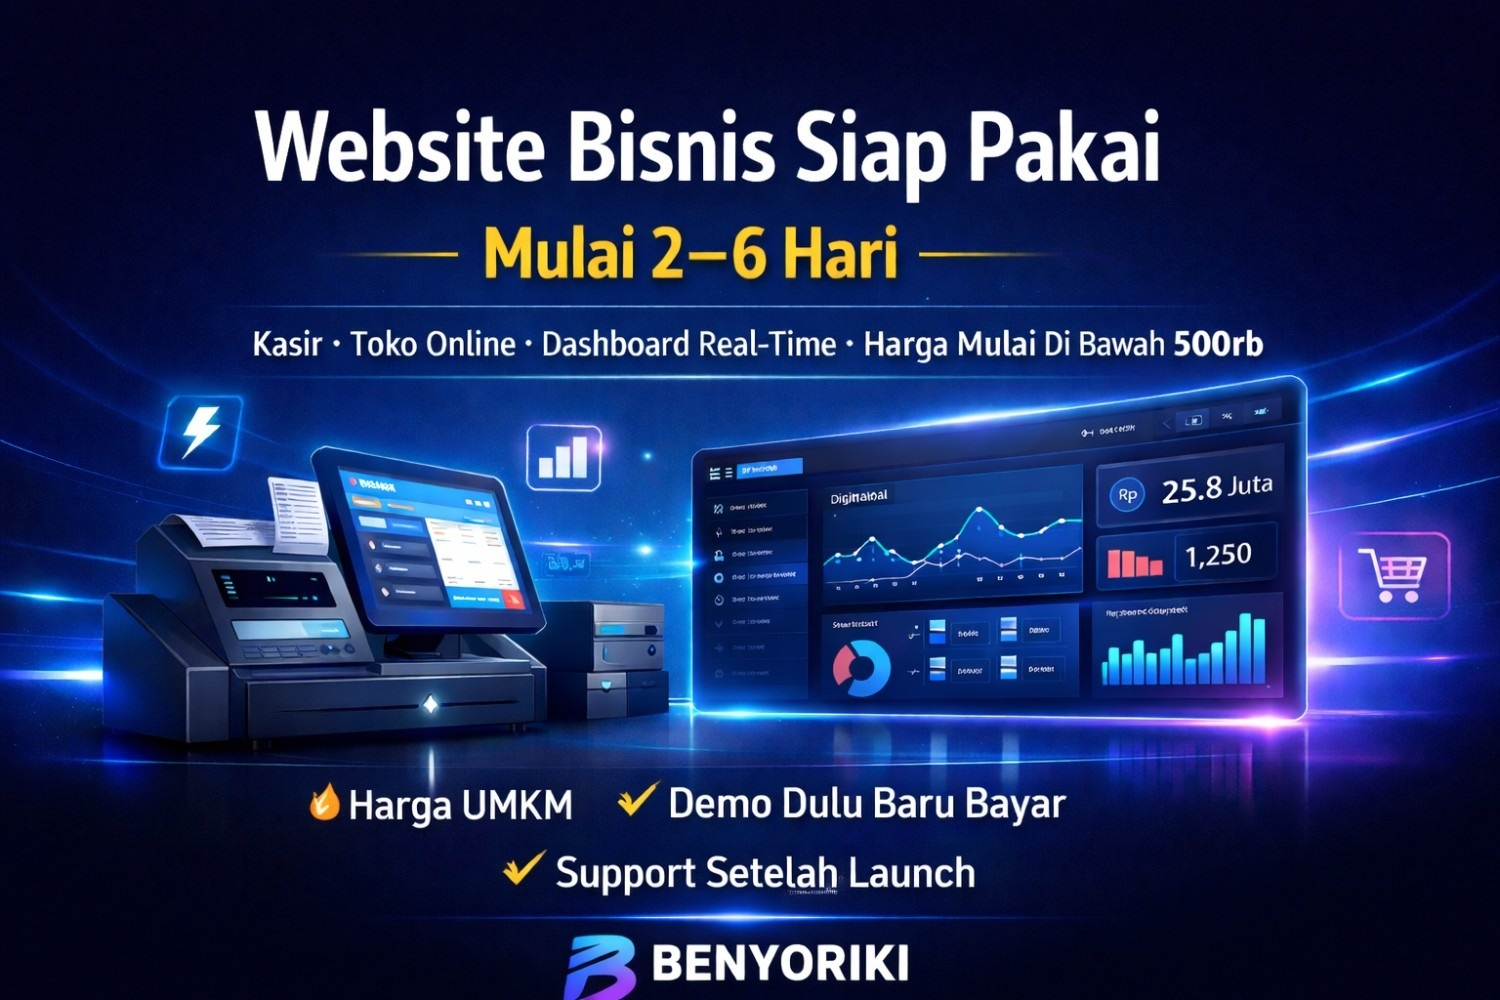
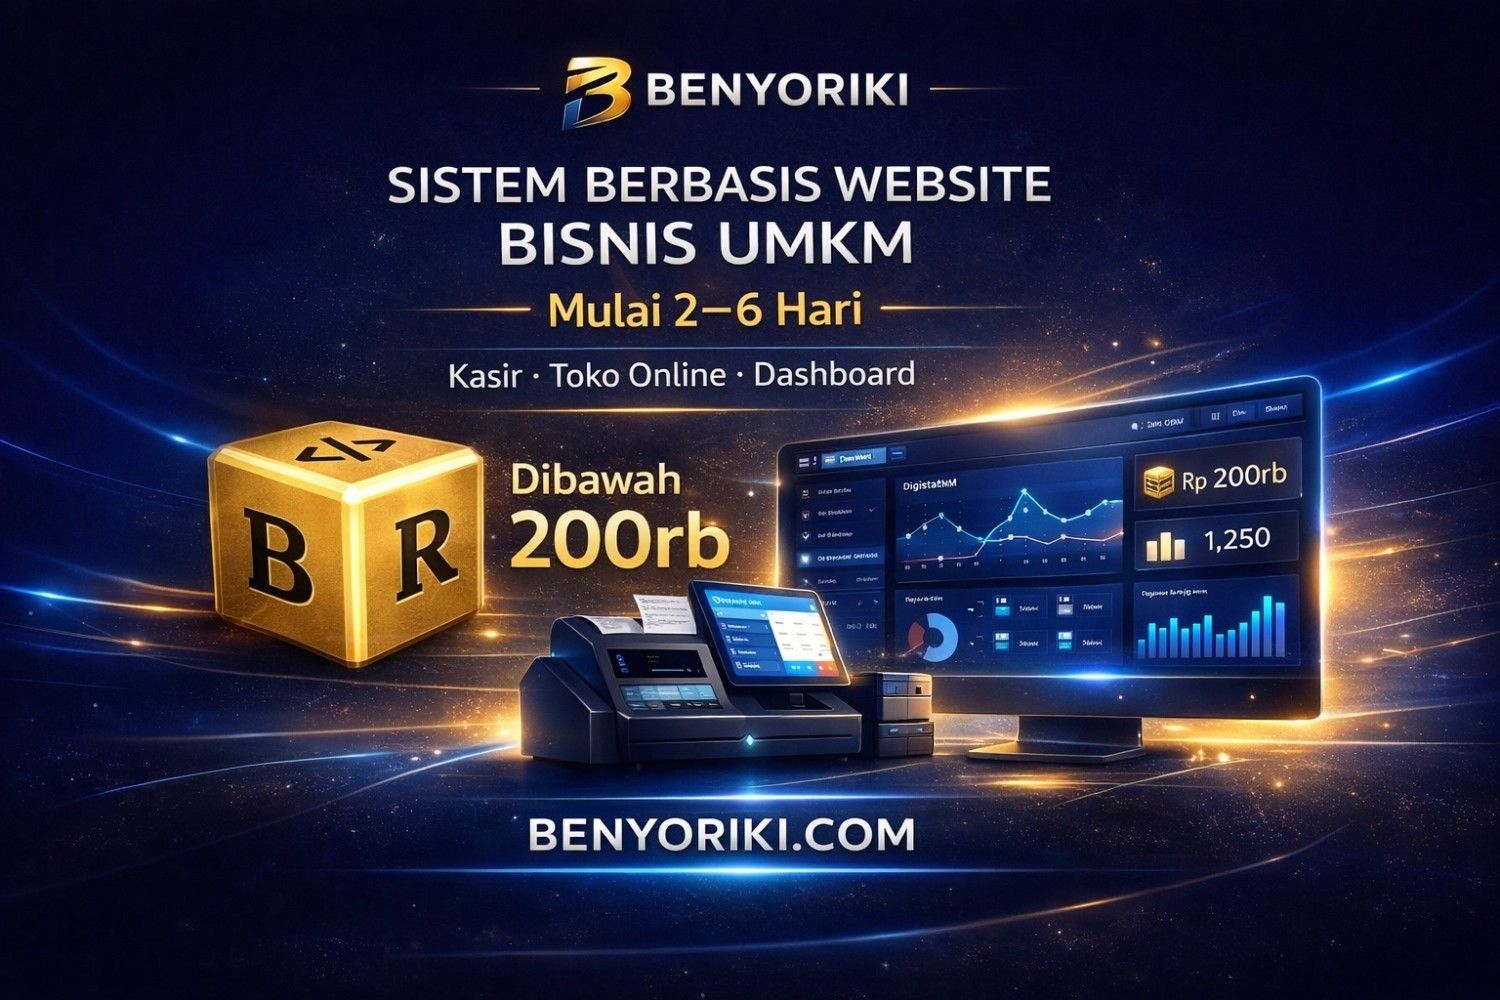
Add files via upload

diff --git a/app.js b/app.js
@@ -360,14 +360,14 @@ IDENTITAS:
 - Spesialisasi: Sistem website real-time, kasir online, toko digital, dashboard bisnis
 
 PAKET HARGA (SELALU SEBUT INI JIKA DITANYA HARGA):
-- Basic: Mulai Rp 500rb → Landing Page/Profil Bisnis, Hosting+Domain 1 tahun GRATIS, selesai 2–3 hari kerja
+- Basic: Mulai Rp 200rb → Landing Page/Profil Bisnis, Hosting+Domain 1 tahun GRATIS, selesai 2–3 hari kerja
 - Standar: Mulai Rp 1,5jt → Toko Online, Katalog Produk, Sistem Login, selesai 3–5 hari kerja
 - Pro: Mulai Rp 3jt → Kasir Online, Dashboard Real-Time, Multi-Cabang, selesai 5–10 hari kerja
 - SEMUA paket: Demo dulu sebelum bayar, support pasca-launch termasuk
 
 KEUNGGULAN UTAMA (selalu tekankan):
 - Website bisnis siap 2–6 hari kerja
-- Harga mulai di bawah Rp 500rb, hosting+domain gratis di paket Basic
+- Harga mulai di bawah Rp 200rb, hosting+domain gratis di paket Basic
 - Demo sistem sebelum bayar — tidak puas, tidak bayar
 - Support & revisi pasca-launch
 - Bisa diakses dari HP kapan saja
@@ -461,11 +461,11 @@ function getFallbackReply(txt) {
   if (t.includes('kasir') || t.includes('pos') || t.includes('inventory'))
     return `🛒 <strong>Sistem Kasir Online</strong> adalah layanan paling diminati kami! Cocok banget untuk warung, toko, atau bisnis multi-cabang — stok update otomatis, laporan harian, bisa diakses dari HP. Harga tergantung fitur & kerumitan sistem, estimasi mulai <strong>Rp 2–5 juta</strong>. Hosting & domain dihitung terpisah untuk paket ini. Mau konsultasi gratis dulu? 😊`;
   if (t.includes('toko') || t.includes('online') || t.includes('shop') || t.includes('ecommerce'))
-    return `🌐 <strong>Toko Online</strong> kami dibuat khusus untuk UMKM — tampil profesional tanpa harga selangit! Katalog produk, keranjang belanja, order via WhatsApp, semua bisa disesuaikan. Harga tergantung banyaknya fitur, mulai dari <strong>di bawah Rp 500rb</strong> untuk yang sederhana (sudah termasuk hosting & domain gratis). Produk apa yang mau Anda jual? 🎯`;
+    return `🌐 <strong>Toko Online</strong> kami dibuat khusus untuk UMKM — tampil profesional tanpa harga selangit! Katalog produk, keranjang belanja, order via WhatsApp, semua bisa disesuaikan. Harga tergantung banyaknya fitur, mulai dari <strong>di bawah Rp 200rb</strong> untuk yang sederhana (sudah termasuk hosting & domain gratis). Produk apa yang mau Anda jual? 🎯`;
   if (t.includes('harga') || t.includes('biaya') || t.includes('berapa') || t.includes('budget') || t.includes('murah') || t.includes('mahal') || t.includes('paket'))
-    return `💰 Kami punya 3 paket dengan harga transparan:<br><br>📌 <strong>Basic</strong>: Mulai Rp 500rb → Landing Page + Hosting & Domain Gratis (2–3 hari selesai)<br>📌 <strong>Standar</strong>: Mulai Rp 1,5jt → Toko Online + Sistem Login (3–5 hari selesai)<br>📌 <strong>Pro</strong>: Mulai Rp 3jt → Kasir + Dashboard Real-Time + Multi-Cabang (5–10 hari selesai)<br><br>Semua paket: <strong>demo dulu sebelum bayar</strong>. Mau tahu lebih detail? <a href='https://wa.me/628988995637' target='_blank'>Chat Riki sekarang →</a> 🚀`;
+    return `💰 Kami punya 3 paket dengan harga transparan:<br><br>📌 <strong>Basic</strong>: Mulai Rp 200rb → Landing Page + Hosting & Domain Gratis (2–3 hari selesai)<br>📌 <strong>Standar</strong>: Mulai Rp 1,5jt → Toko Online + Sistem Login (3–5 hari selesai)<br>📌 <strong>Pro</strong>: Mulai Rp 3jt → Kasir + Dashboard Real-Time + Multi-Cabang (5–10 hari selesai)<br><br>Semua paket: <strong>demo dulu sebelum bayar</strong>. Mau tahu lebih detail? <a href='https://wa.me/628988995637' target='_blank'>Chat Riki sekarang →</a> 🚀`;
   if (t.includes('hosting') || t.includes('domain'))
-    return `🌐 Soal hosting & domain, begini ketentuannya: untuk paket website <strong>di bawah Rp 500rb</strong>, hosting & domain sudah <strong>GRATIS</strong> termasuk dalam paket! Untuk proyek yang lebih kompleks dengan kebutuhan server lebih besar, hosting & domain dihitung <strong>terpisah</strong> dari harga jasa pembuatan. Mau tahu lebih lanjut? Yuk konsultasi gratis! 😊`;
+    return `🌐 Soal hosting & domain, begini ketentuannya: untuk paket website <strong>di bawah Rp 200rb</strong>, hosting & domain sudah <strong>GRATIS</strong> termasuk dalam paket! Untuk proyek yang lebih kompleks dengan kebutuhan server lebih besar, hosting & domain dihitung <strong>terpisah</strong> dari harga jasa pembuatan. Mau tahu lebih lanjut? Yuk konsultasi gratis! 😊`;
   if (t.includes('dashboard') || t.includes('laporan') || t.includes('analitik'))
     return `📊 <strong>Dashboard bisnis real-time</strong> bisa pantau omzet, stok, dan transaksi dari mana saja langsung dari HP Anda! Grafik live, laporan otomatis, export PDF/Excel. Harga tergantung fitur & kerumitan, estimasi mulai <strong>Rp 3–7 juta</strong> (hosting & domain terpisah). Sangat cocok untuk pemilik bisnis yang sering mobile. Bisnis Anda di bidang apa? 🏪`;
   if (t.includes('lama') || t.includes('waktu') || t.includes('kapan') || t.includes('selesai'))
@@ -473,12 +473,12 @@ function getFallbackReply(txt) {
   if (t.includes('portfolio') || t.includes('portofolio') || t.includes('contoh') || t.includes('hasil'))
     return `👀 Portofolio kami bisa dilihat langsung di halaman ini — <strong>bukan sekadar screenshot, tapi website asli yang bisa dibuka!</strong> Scroll ke bagian Portofolio ya. Ada toko online, kasir, UMKM makanan & minuman, dan lainnya. Mau saya rekomendasikan yang paling mirip dengan bisnis Anda? 😊`;
   if (/halo|hai|hi|hello|selamat|pagi|siang|malam/.test(t))
-    return `Halo! Selamat datang di layanan website Riki 👋 Kami spesialis pembuatan sistem web untuk <strong>UMKM & bisnis lokal</strong> — harga mulai <strong>di bawah Rp 500rb</strong>, sudah termasuk hosting & domain gratis untuk paket dasar! Ada yang bisa saya bantu hari ini? 😊`;
+    return `Halo! Selamat datang di layanan website Riki 👋 Kami spesialis pembuatan sistem web untuk <strong>UMKM & bisnis lokal</strong> — harga mulai <strong>di bawah Rp 200rb</strong>, sudah termasuk hosting & domain gratis untuk paket dasar! Ada yang bisa saya bantu hari ini? 😊`;
   if (t.includes('revisi') || t.includes('support') || t.includes('maintenance') || t.includes('after'))
     return `🛡 Tenang, kami tidak tinggalkan Anda setelah selesai! Setiap proyek sudah termasuk <strong>support & revisi</strong> pasca-launch. Jika ada bug atau perlu penyesuaian, kami siap bantu. Untuk maintenance jangka panjang juga tersedia paket bulanan. Tidak perlu khawatir soal itu! 💪`;
   if (t.includes('gratis') || t.includes('free'))
-    return `🎁 Ada yang gratis nih! Untuk paket website <strong>di bawah Rp 500rb</strong>, sudah termasuk <strong>hosting & domain GRATIS</strong>. Selain itu, konsultasi awal dan demo sistem sebelum deal juga gratis! Untuk paket yang lebih kompleks, hosting & domain dihitung terpisah sesuai kebutuhan. Tertarik? 😊`;
-  return `Terima kasih sudah menghubungi kami! 🙏 Kami spesialis <strong>sistem website untuk UMKM & bisnis</strong> — harga rata-rata <strong>di bawah Rp 500rb</strong> dengan hosting & domain gratis untuk paket dasar. Harga bisa lebih tergantung fitur & kerumitan sistem. Boleh ceritakan bisnis Anda? Biar saya rekomendasikan solusi yang paling tepat 💡`;
+    return `🎁 Ada yang gratis nih! Untuk paket website <strong>di bawah Rp 200rb</strong>, sudah termasuk <strong>hosting & domain GRATIS</strong>. Selain itu, konsultasi awal dan demo sistem sebelum deal juga gratis! Untuk paket yang lebih kompleks, hosting & domain dihitung terpisah sesuai kebutuhan. Tertarik? 😊`;
+  return `Terima kasih sudah menghubungi kami! 🙏 Kami spesialis <strong>sistem website untuk UMKM & bisnis</strong> — harga rata-rata <strong>di bawah Rp 200rb</strong> dengan hosting & domain gratis untuk paket dasar. Harga bisa lebih tergantung fitur & kerumitan sistem. Boleh ceritakan bisnis Anda? Biar saya rekomendasikan solusi yang paling tepat 💡`;
 }
 
 async function processAndReply(userText) {

diff --git a/index.html b/index.html
@@ -872,7 +872,7 @@
           <span class="faq-arrow">▼</span>
         </button>
         <div class="faq-a">
-          <p>Harga kami transparan dan sudah kami uraikan di <a href="#harga">section Harga</a>. Paket Basic mulai <strong>di bawah Rp 500rb</strong> (sudah termasuk hosting & domain gratis 1 tahun). Paket Standar mulai Rp 1,5jt, dan Pro mulai Rp 3jt. <strong>Tidak ada biaya tersembunyi</strong> — semua sudah tercantum di estimasi yang kami kirim sebelum Anda setuju.</p>
+          <p>Harga kami transparan dan sudah kami uraikan di <a href="#harga">section Harga</a>. Paket Basic mulai <strong>di bawah Rp 200rb</strong> (sudah termasuk hosting & domain gratis 1 tahun). Paket Standar mulai Rp 1,5jt, dan Pro mulai Rp 3jt. <strong>Tidak ada biaya tersembunyi</strong> — semua sudah tercantum di estimasi yang kami kirim sebelum Anda setuju.</p>
         </div>
       </div>
 
@@ -1118,7 +1118,7 @@
   <div class="cb-msgs" id="cbMsgs">
     <div class="cb-dateline">Hari ini</div>
     <div class="cb-msg bot">
-      <div class="cb-bubble">👋 Halo! Saya asisten Riki — spesialis website bisnis & UMKM.<br><br>💰 <strong>Website bisnis mulai Rp 500rb</strong>, siap dalam <strong>2–6 hari kerja</strong>, hosting + domain sudah termasuk!<br><br>Mau tanya soal apa? Pilih di bawah atau ketik langsung 👇</div>
+      <div class="cb-bubble">👋 Halo! Saya asisten Riki — spesialis website bisnis & UMKM.<br><br>💰 <strong>Website bisnis mulai Rp 200rb</strong>, siap dalam <strong>2–6 hari kerja</strong>, hosting + domain sudah termasuk!<br><br>Mau tanya soal apa? Pilih di bawah atau ketik langsung 👇</div>
       <div class="cb-time">Baru saja</div>
     </div>
     <div class="cb-qr" id="cbQR">
